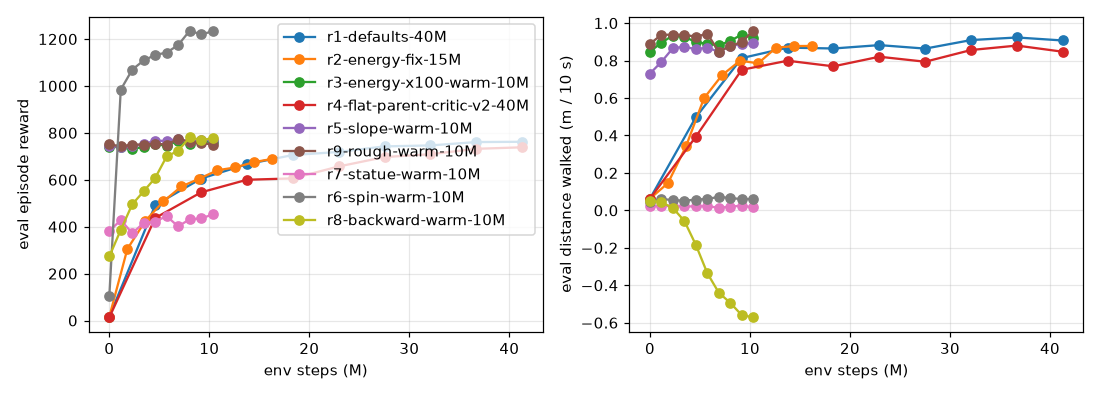
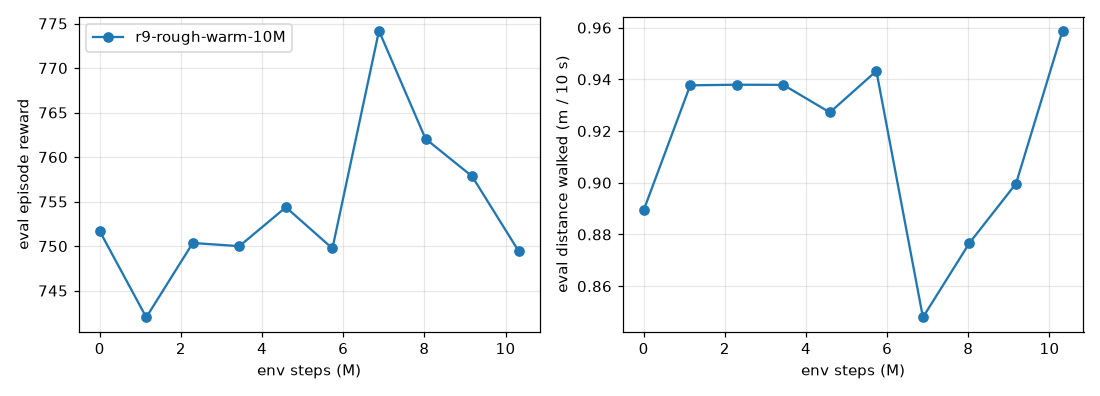
fix: terrain boxes render (geom group 2), stale suite-version assertion; rough GIFs re-rendered with the rocks visible

diff --git a/documentation/index.html b/documentation/index.html
@@ -258,13 +258,13 @@ figcaption{margin-top:.8rem;font-size:.82rem;color:var(--ink-soft);text-align:ce
       <h1>Bittle Agent — Working Documentation</h1>
       <p class="sub">The living record of the Petoi Bittle X control plane and its RL walking trainer: what was built, every training run, what is verified, what is still open.</p>
     </div>
-    <span class="stamp"><span class="freshness lede" data-ts="2026-09-08T03:21:35.196823+00:00"></span>generated 2026-09-08 03:21 UTC · do not edit by hand</span>
+    <span class="stamp"><span class="freshness lede" data-ts="2026-09-07T20:22:14-07:00"></span>generated 2026-09-08 03:25 UTC · do not edit by hand</span>
   </div>
 </header>
 <div class="shell">
   <nav class="toc" aria-label="Contents">
     <h2>Contents</h2>
-    <ol><li class="part" title="">Orientation</li><li><a class="chapter" href="#how-to-use-this"><span class="num">1</span><span class="title-text">How to use this</span><span class="status s-muted">reference</span><span class="freshness badge" data-ts="2026-09-07T16:43:13-07:00"></span></a></li><li><a class="sub" href="#the-rule">The rule</a></li><li><a class="sub" href="#writing-a-chapter">Writing a chapter</a></li><li><a class="sub" href="#building-and-reading-it">Building and reading it</a></li><li><a class="sub" href="#what-does-not-belong-here">What does not belong here</a></li><li class="part" title="">RL walking trainer</li><li><a class="chapter" href="#rl-walking-training"><span class="num">2</span><span class="title-text">Teaching Bittle to walk: the RL training loop</span><span class="status s-ok">shipped</span><span class="freshness badge" data-ts="2026-09-07T19:22:42-07:00"></span></a></li><li><a class="sub" href="#1-what-was-built">1. What was built</a></li><li><a class="sub" href="#2-the-simulated-robot">2. The simulated robot</a></li><li><a class="sub" href="#3-what-the-policy-sees-and-does">3. What the policy sees and does</a></li><li><a class="sub" href="#4-training-results-so-far">4. Training results so far</a></li><li><a class="sub" href="#5-the-agents-loop-as-it-actually-happened">5. The agent&#x27;s loop, as it actually happened</a></li><li><a class="sub" href="#6-running-it">6. Running it</a></li><li><a class="sub" href="#7-sizing-and-box-choice">7. Sizing and box choice</a></li><li><a class="sub" href="#8-not-done-yet">8. Not done yet</a></li><li><a class="chapter" href="#training-run-ledger"><span class="num">3</span><span class="title-text">Training run ledger</span><span class="status s-ok">shipped</span><span class="freshness badge" data-ts="2026-09-08T03:21:35.196823+00:00"></span></a></li><li><a class="sub" href="#flat_v1-4-runs">flat_v1 — 4 runs</a></li><li><a class="sub" href="#slope_v1-1-runs">slope_v1 — 1 runs</a></li><li><a class="sub" href="#rough_v1-1-runs">rough_v1 — 1 runs</a></li><li><a class="sub" href="#statue_v1-1-runs">statue_v1 — 1 runs</a></li><li><a class="sub" href="#spin_v1-1-runs">spin_v1 — 1 runs</a></li><li><a class="sub" href="#backward_v1-1-runs">backward_v1 — 1 runs</a></li><li><a class="sub" href="#runs-outside-the-store-development-smoke-tests-2026-09-07">Runs outside the store (development smoke tests, 2026-09-07)</a></li><li><a class="chapter" href="#gate-audit-and-loop-fixes-2026-09-07"><span class="num">4</span><span class="title-text">The gate that failed was the gate, not the robot (audit + loop fixes)</span><span class="status s-ok">shipped</span><span class="freshness badge" data-ts="2026-09-07T19:47:52-07:00"></span></a></li><li><a class="sub" href="#the-question">The question</a></li><li><a class="sub" href="#finding-1-the-energy-threshold-was-a-guess-and-the-plan-said-so">Finding 1: the energy threshold was a guess, and the plan said so</a></li><li><a class="sub" href="#finding-2-the-llm-was-told-raise-the-energy-penalty-but-not-by-how-much">Finding 2: the LLM was told &quot;raise the energy penalty&quot; but not by how much</a></li><li><a class="sub" href="#finding-3-every-cycle-re-trained-from-scratch">Finding 3: every cycle re-trained from scratch</a></li><li><a class="sub" href="#finding-4-a-flaky-service-test-was-a-real-race">Finding 4: a flaky service test was a real race</a></li><li><a class="sub" href="#run-3-the-fixes-in-one-cycle">Run 3: the fixes in one cycle</a></li><li><a class="sub" href="#how-to-read-the-results-page-from-now-on">How to read the results page from now on</a></li><li><a class="chapter" href="#terrain-and-task-training"><span class="num">5</span><span class="title-text">Inclines, rocks and fun moves: terrain and task training</span><span class="status s-ok">shipped</span><span class="freshness badge" data-ts="2026-09-08T03:14:35.980419+00:00"></span></a></li><li><a class="sub" href="#the-question">The question</a></li><li><a class="sub" href="#what-was-built">What was built</a></li><li><a class="sub" href="#the-servo-safety-fragment-every-suite">The servo-safety fragment (every suite)</a></li><li><a class="sub" href="#calibration-the-firmware-gaits-replayed-on-each-terrain-20-episodes-tested-envelope">Calibration: the firmware gaits replayed on each terrain (20 episodes, tested envelope)</a></li><li><a class="sub" href="#three-physics-defects-found-on-the-way">Three physics defects found on the way</a></li><li><a class="sub" href="#the-fun-move-catalogue-sim-measurements-bittle_cpuxml">The fun-move catalogue (sim measurements, bittle_cpu.xml)</a></li><li><a class="sub" href="#runs">Runs</a></li><li><a class="sub" href="#what-is-still-open">What is still open</a></li></ol>
+    <ol><li class="part" title="">Orientation</li><li><a class="chapter" href="#how-to-use-this"><span class="num">1</span><span class="title-text">How to use this</span><span class="status s-muted">reference</span><span class="freshness badge" data-ts="2026-09-07T16:43:13-07:00"></span></a></li><li><a class="sub" href="#the-rule">The rule</a></li><li><a class="sub" href="#writing-a-chapter">Writing a chapter</a></li><li><a class="sub" href="#building-and-reading-it">Building and reading it</a></li><li><a class="sub" href="#what-does-not-belong-here">What does not belong here</a></li><li class="part" title="">RL walking trainer</li><li><a class="chapter" href="#rl-walking-training"><span class="num">2</span><span class="title-text">Teaching Bittle to walk: the RL training loop</span><span class="status s-ok">shipped</span><span class="freshness badge" data-ts="2026-09-07T19:22:42-07:00"></span></a></li><li><a class="sub" href="#1-what-was-built">1. What was built</a></li><li><a class="sub" href="#2-the-simulated-robot">2. The simulated robot</a></li><li><a class="sub" href="#3-what-the-policy-sees-and-does">3. What the policy sees and does</a></li><li><a class="sub" href="#4-training-results-so-far">4. Training results so far</a></li><li><a class="sub" href="#5-the-agents-loop-as-it-actually-happened">5. The agent&#x27;s loop, as it actually happened</a></li><li><a class="sub" href="#6-running-it">6. Running it</a></li><li><a class="sub" href="#7-sizing-and-box-choice">7. Sizing and box choice</a></li><li><a class="sub" href="#8-not-done-yet">8. Not done yet</a></li><li><a class="chapter" href="#training-run-ledger"><span class="num">3</span><span class="title-text">Training run ledger</span><span class="status s-ok">shipped</span><span class="freshness badge" data-ts="2026-09-07T20:22:14-07:00"></span></a></li><li><a class="sub" href="#flat_v1-4-runs">flat_v1 — 4 runs</a></li><li><a class="sub" href="#slope_v1-1-runs">slope_v1 — 1 runs</a></li><li><a class="sub" href="#rough_v1-1-runs">rough_v1 — 1 runs</a></li><li><a class="sub" href="#statue_v1-1-runs">statue_v1 — 1 runs</a></li><li><a class="sub" href="#spin_v1-1-runs">spin_v1 — 1 runs</a></li><li><a class="sub" href="#backward_v1-1-runs">backward_v1 — 1 runs</a></li><li><a class="sub" href="#runs-outside-the-store-development-smoke-tests-2026-09-07">Runs outside the store (development smoke tests, 2026-09-07)</a></li><li><a class="chapter" href="#gate-audit-and-loop-fixes-2026-09-07"><span class="num">4</span><span class="title-text">The gate that failed was the gate, not the robot (audit + loop fixes)</span><span class="status s-ok">shipped</span><span class="freshness badge" data-ts="2026-09-07T19:47:52-07:00"></span></a></li><li><a class="sub" href="#the-question">The question</a></li><li><a class="sub" href="#finding-1-the-energy-threshold-was-a-guess-and-the-plan-said-so">Finding 1: the energy threshold was a guess, and the plan said so</a></li><li><a class="sub" href="#finding-2-the-llm-was-told-raise-the-energy-penalty-but-not-by-how-much">Finding 2: the LLM was told &quot;raise the energy penalty&quot; but not by how much</a></li><li><a class="sub" href="#finding-3-every-cycle-re-trained-from-scratch">Finding 3: every cycle re-trained from scratch</a></li><li><a class="sub" href="#finding-4-a-flaky-service-test-was-a-real-race">Finding 4: a flaky service test was a real race</a></li><li><a class="sub" href="#run-3-the-fixes-in-one-cycle">Run 3: the fixes in one cycle</a></li><li><a class="sub" href="#how-to-read-the-results-page-from-now-on">How to read the results page from now on</a></li><li><a class="chapter" href="#terrain-and-task-training"><span class="num">5</span><span class="title-text">Inclines, rocks and fun moves: terrain and task training</span><span class="status s-ok">shipped</span><span class="freshness badge" data-ts="2026-09-07T20:22:14-07:00"></span></a></li><li><a class="sub" href="#the-question">The question</a></li><li><a class="sub" href="#what-was-built">What was built</a></li><li><a class="sub" href="#the-servo-safety-fragment-every-suite">The servo-safety fragment (every suite)</a></li><li><a class="sub" href="#calibration-the-firmware-gaits-replayed-on-each-terrain-20-episodes-tested-envelope">Calibration: the firmware gaits replayed on each terrain (20 episodes, tested envelope)</a></li><li><a class="sub" href="#three-physics-defects-found-on-the-way">Three physics defects found on the way</a></li><li><a class="sub" href="#the-fun-move-catalogue-sim-measurements-bittle_cpuxml">The fun-move catalogue (sim measurements, bittle_cpu.xml)</a></li><li><a class="sub" href="#runs">Runs</a></li><li><a class="sub" href="#what-is-still-open">What is still open</a></li></ol>
   </nav>
   <main><div class="part-divider"><h2>Orientation</h2></div>
 <section class="chapter" id="how-to-use-this"><span class="freshness" data-ts="2026-09-07T16:43:13-07:00"></span><p class="eyebrow">Orientation<span class="sep">·</span>Chapter 1</p><p class="statusbar"><span class="status s-muted">reference</span><span class="meta-pill">updated 2026-09-07</span></p><h1 id="how-to-use-this">How to use this</h1>
@@ -393,7 +393,7 @@ MUJOCO_GL=osmesa PYTHONPATH=$PWD .venv-trainer/bin/python trainer/scripts/render
 <li>Curriculum stages 1–2 (turning, lateral, pushes), the DR-sweep gate and the GPU-vs-CPU consistency gate are implemented but have not been exercised by a real run.</li>
 <li>The 3D viewer rollout playback was checked on the JSON, not by eye.</li>
 </ul></section>
-<section class="chapter" id="training-run-ledger"><span class="freshness" data-ts="2026-09-08T03:21:35.196823+00:00"></span><p class="eyebrow">RL walking trainer<span class="sep">·</span>Chapter 3</p><p class="statusbar"><span class="status s-ok">shipped</span><span class="meta-pill">updated 2026-09-07</span></p><h1 id="training-run-ledger">Training run ledger</h1>
+<section class="chapter" id="training-run-ledger"><span class="freshness" data-ts="2026-09-07T20:22:14-07:00"></span><p class="eyebrow">RL walking trainer<span class="sep">·</span>Chapter 3</p><p class="statusbar"><span class="status s-ok">shipped</span><span class="meta-pill">updated 2026-09-07</span></p><h1 id="training-run-ledger">Training run ledger</h1>
 <p>Every policy training run recorded by the trainer, grouped by the gate suite it is judged on and newest last within a suite. Generated from <code>runs/</code> by <code>trainer/scripts/render_docs.py --ledger</code>; rerun it after training and commit the result. Score = gates passed + 0.5·min(distance, 1) − fall rate, and it is only comparable WITHIN a suite. Each suite's protocol line comes from its yaml.</p>
 <h2 id="flat_v1-4-runs">flat_v1 — 4 runs</h2>
 <p>Protocol <code>flat_v1@1.2.0</code>: 20 seeded episodes, 10 s, command [0.12, 0.0, 0.0], flat ground, CPU MuJoCo on the mesh model; 22 gates incl. the servo-safety fragment.</p>
@@ -593,7 +593,7 @@ MUJOCO_GL=osmesa PYTHONPATH=$PWD .venv-trainer/bin/python trainer/scripts/render
 <li><strong>Reward shares</strong> (<code>bittle_diagnose_run</code>) tell you which weight is worth touching.</li>
 <li>The next lever after flat-ground gates is not harder terrain yet: run the <strong>DR sweep</strong> (<code>dr_sweep</code>) to check robustness to friction, payload, servo strength and latency, then <strong>curriculum stage 1</strong> (turning, 0–0.25 m/s), then stage 2 (lateral, pushes). Terrain (the 18 mm mini-stairs from the obstacle course, as box geoms) comes after that — it is a new gate suite, not a tweak. <em>(Done the same day: chapter 04 adds the incline and rock suites, the servo-safety gates and the task catalogue; the order above still holds for a new parent.)</em></li>
 </ul></section>
-<section class="chapter" id="terrain-and-task-training"><span class="freshness" data-ts="2026-09-08T03:14:35.980419+00:00"></span><p class="eyebrow">RL walking trainer<span class="sep">·</span>Chapter 5</p><p class="statusbar"><span class="status s-ok">shipped</span><span class="meta-pill">updated 2026-09-07</span></p><h1 id="inclines-rocks-and-fun-moves-terrain-and-task-training">Inclines, rocks and fun moves: terrain and task training</h1>
+<section class="chapter" id="terrain-and-task-training"><span class="freshness" data-ts="2026-09-07T20:22:14-07:00"></span><p class="eyebrow">RL walking trainer<span class="sep">·</span>Chapter 5</p><p class="statusbar"><span class="status s-ok">shipped</span><span class="meta-pill">updated 2026-09-07</span></p><h1 id="inclines-rocks-and-fun-moves-terrain-and-task-training">Inclines, rocks and fun moves: terrain and task training</h1>
 <h2 id="the-question">The question</h2>
 <p>The flat-ground loop works (chapters 01–03). Can GLM now train the robot to walk <strong>up an incline and over rocks/edges</strong>, and which other <strong>fun moves</strong> are physically safe for the real Bittle X's servos? Simulation only for now; nothing may close the path to the real robot (IMU-only actor observation, joint targets clipped to the conservative <code>agent</code> envelope, servo model untouched).</p>
 <h2 id="what-was-built">What was built</h2>

diff --git a/trainer/assets/build_models.py b/trainer/assets/build_models.py
@@ -281,10 +281,11 @@ def _exclude_chassis_leg_contacts(root: ET.Element) -> int:
 def _add_terrain_class(root: ET.Element) -> None:
     default = root.find("default")
     cls = ET.SubElement(default, "default", {"class": "terrain"})
-    # conaffinity=1 so the robot's prim class (contype 1, conaffinity 0) collides with it; margin 0
+    # conaffinity=1 so the robot's prim class (contype 1, conaffinity 0) collides with it; margin 0.
+    # group 2: visible by default (the renderer hides groups >= 3, which made the first rough GIFs look flat)
     ET.SubElement(cls, "geom", {
         "type": "box", "contype": "1", "conaffinity": "1", "condim": "3",
-        "friction": "0.9 0.02 0.01", "group": "3", "rgba": "0.45 0.4 0.35 1",
+        "friction": "0.9 0.02 0.01", "group": "2", "rgba": "0.55 0.48 0.40 1",
     })
 
 

diff --git a/trainer/tests/test_store_and_service.py b/trainer/tests/test_store_and_service.py
@@ -164,5 +164,6 @@ def test_service_tasks_catalogue_reports_prerequisites(client):
     assert client.post(f"/runs/{rid}/benchmark", json={"wait_s": 10}).status_code == 200
     t1 = {t["task"]: t for t in client.get("/tasks").json()["tasks"]}
     assert t1["slope_up"]["status"] == "ready" and t1["slope_up"]["warm_start_from"] == rid
-    assert t1["flat_walk"]["best_run"] == rid and t1["slope_up"]["suite_version"] == "0.1.0-uncalibrated"
+    assert t1["flat_walk"]["best_run"] == rid and t1["slope_up"]["suite_version"] == "1.0.0"
+    assert t1["rough_walk"]["suite_version"].endswith("-uncalibrated")
     assert {"flat_v1", "rough_v1", "slope_v1", "spin_v1", "statue_v1", "backward_v1"} <= set(client.get("/health").json()["suites"])
